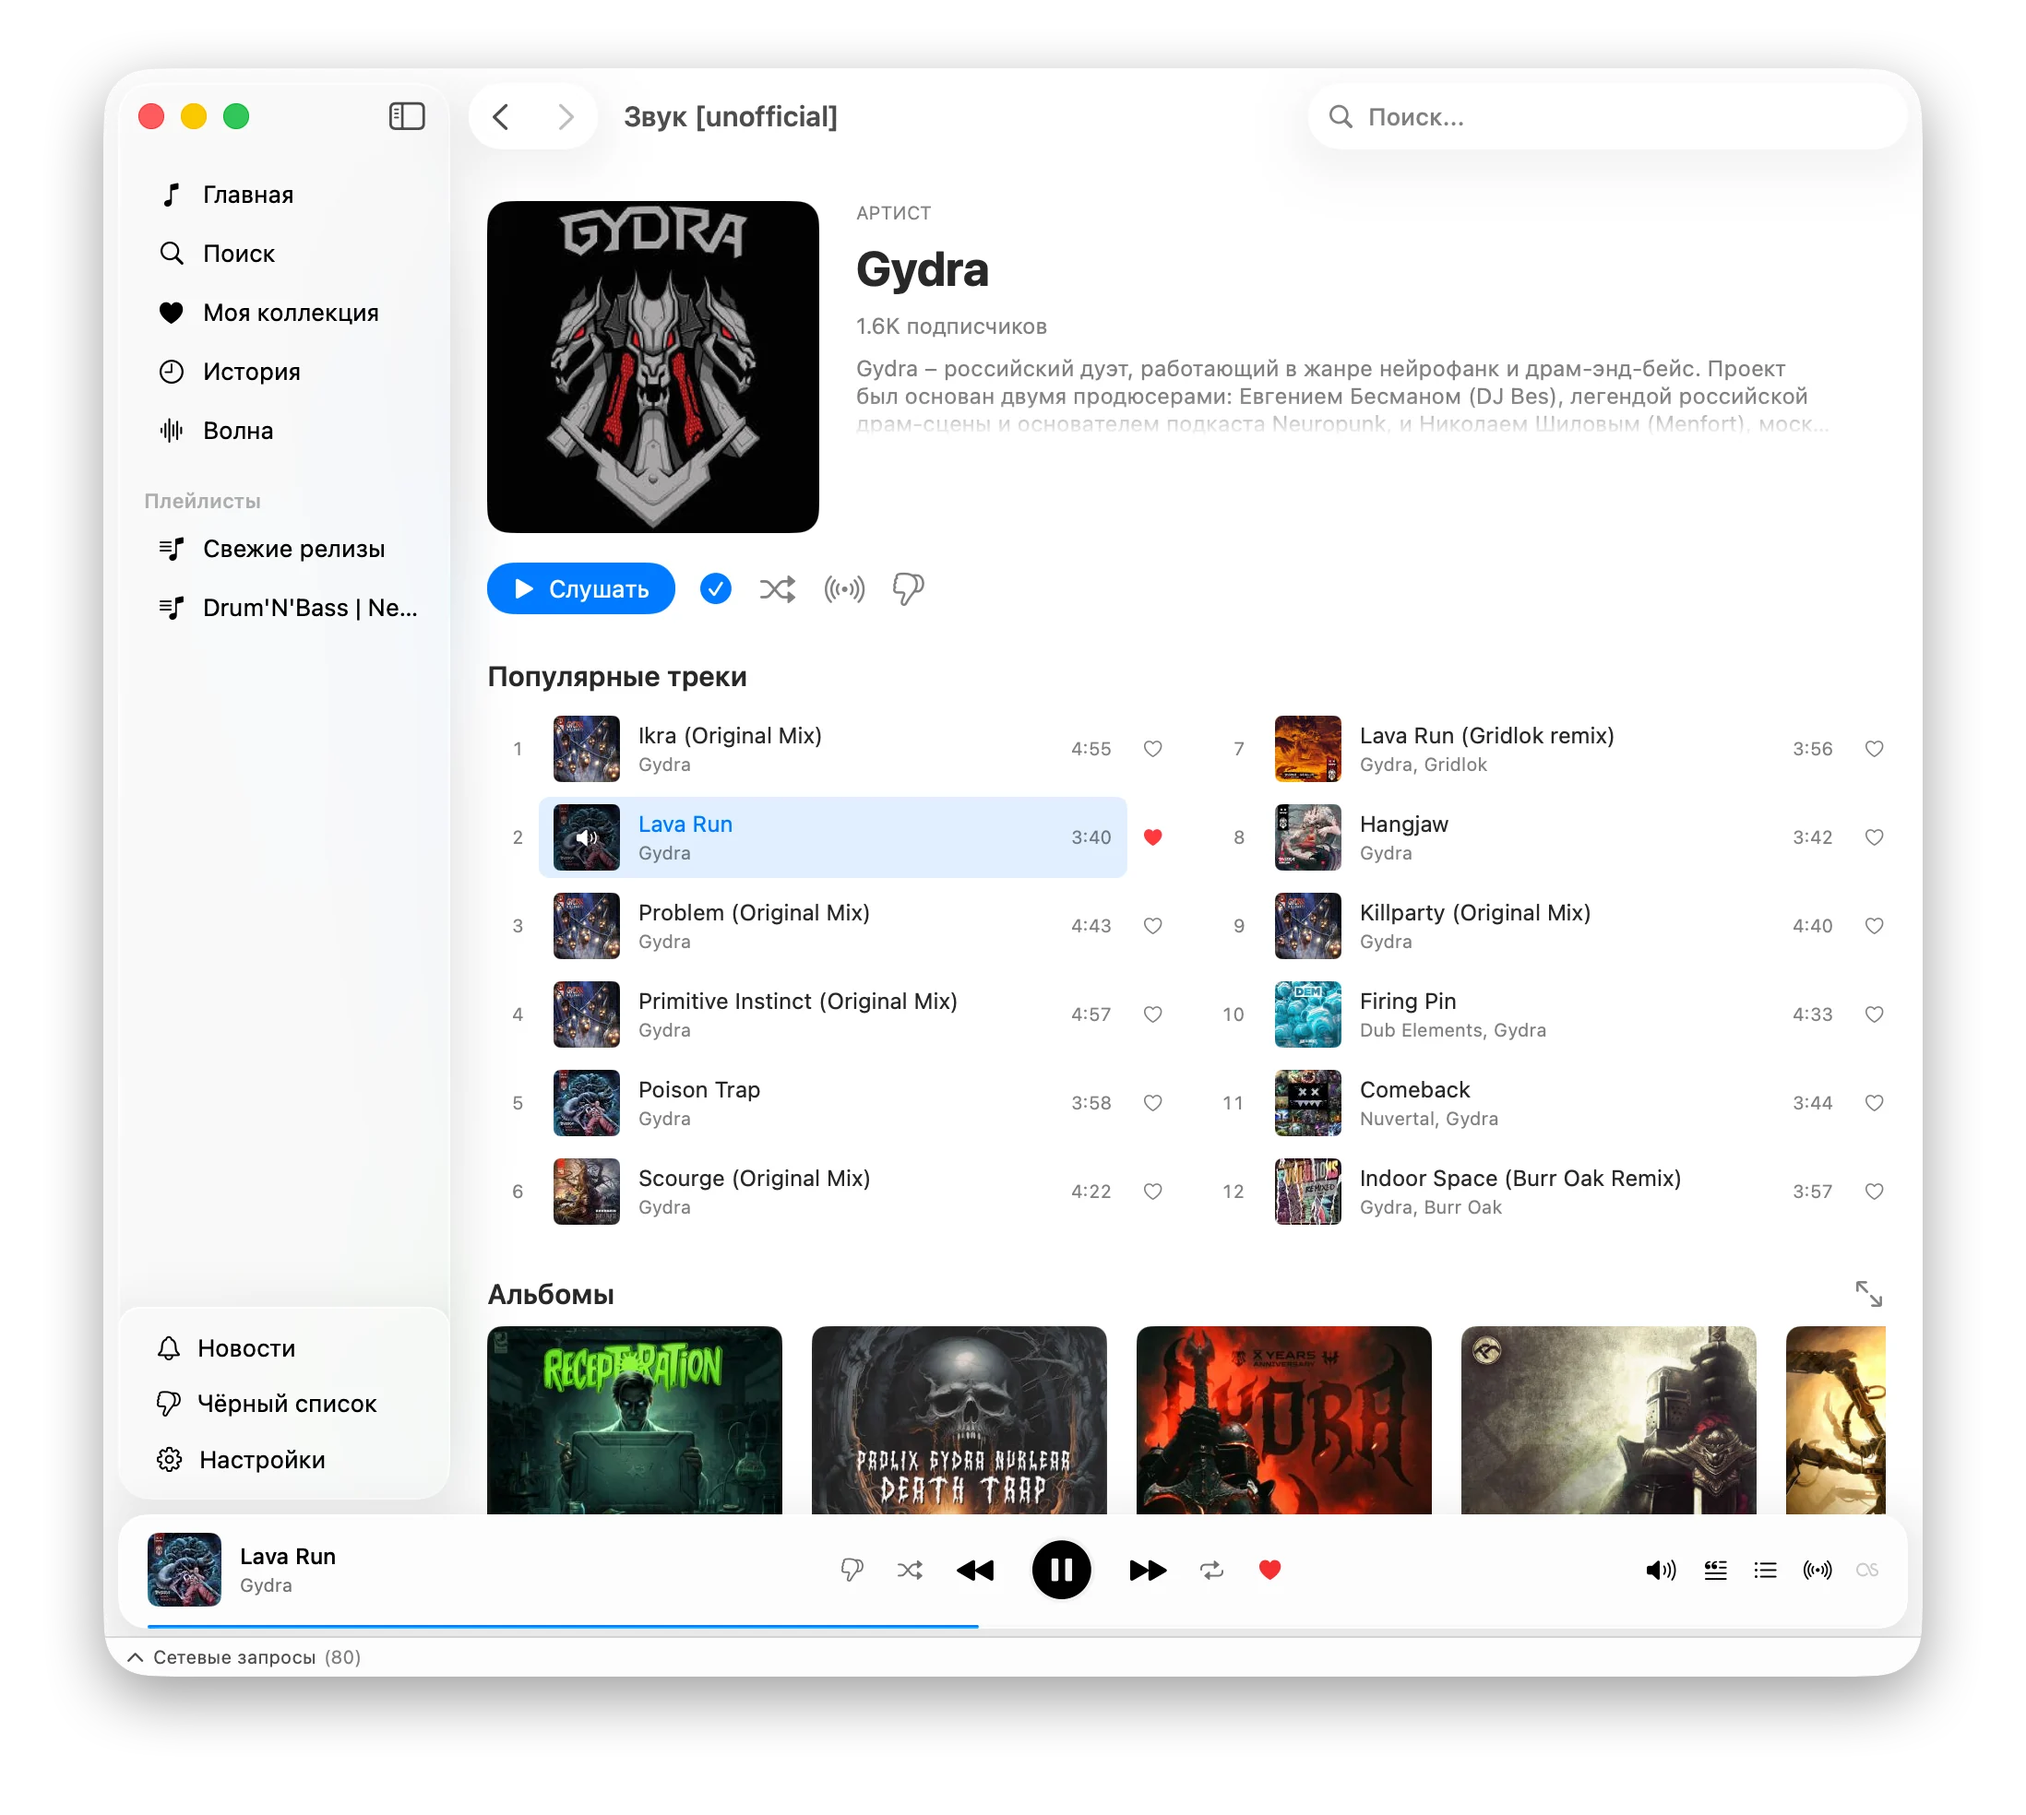
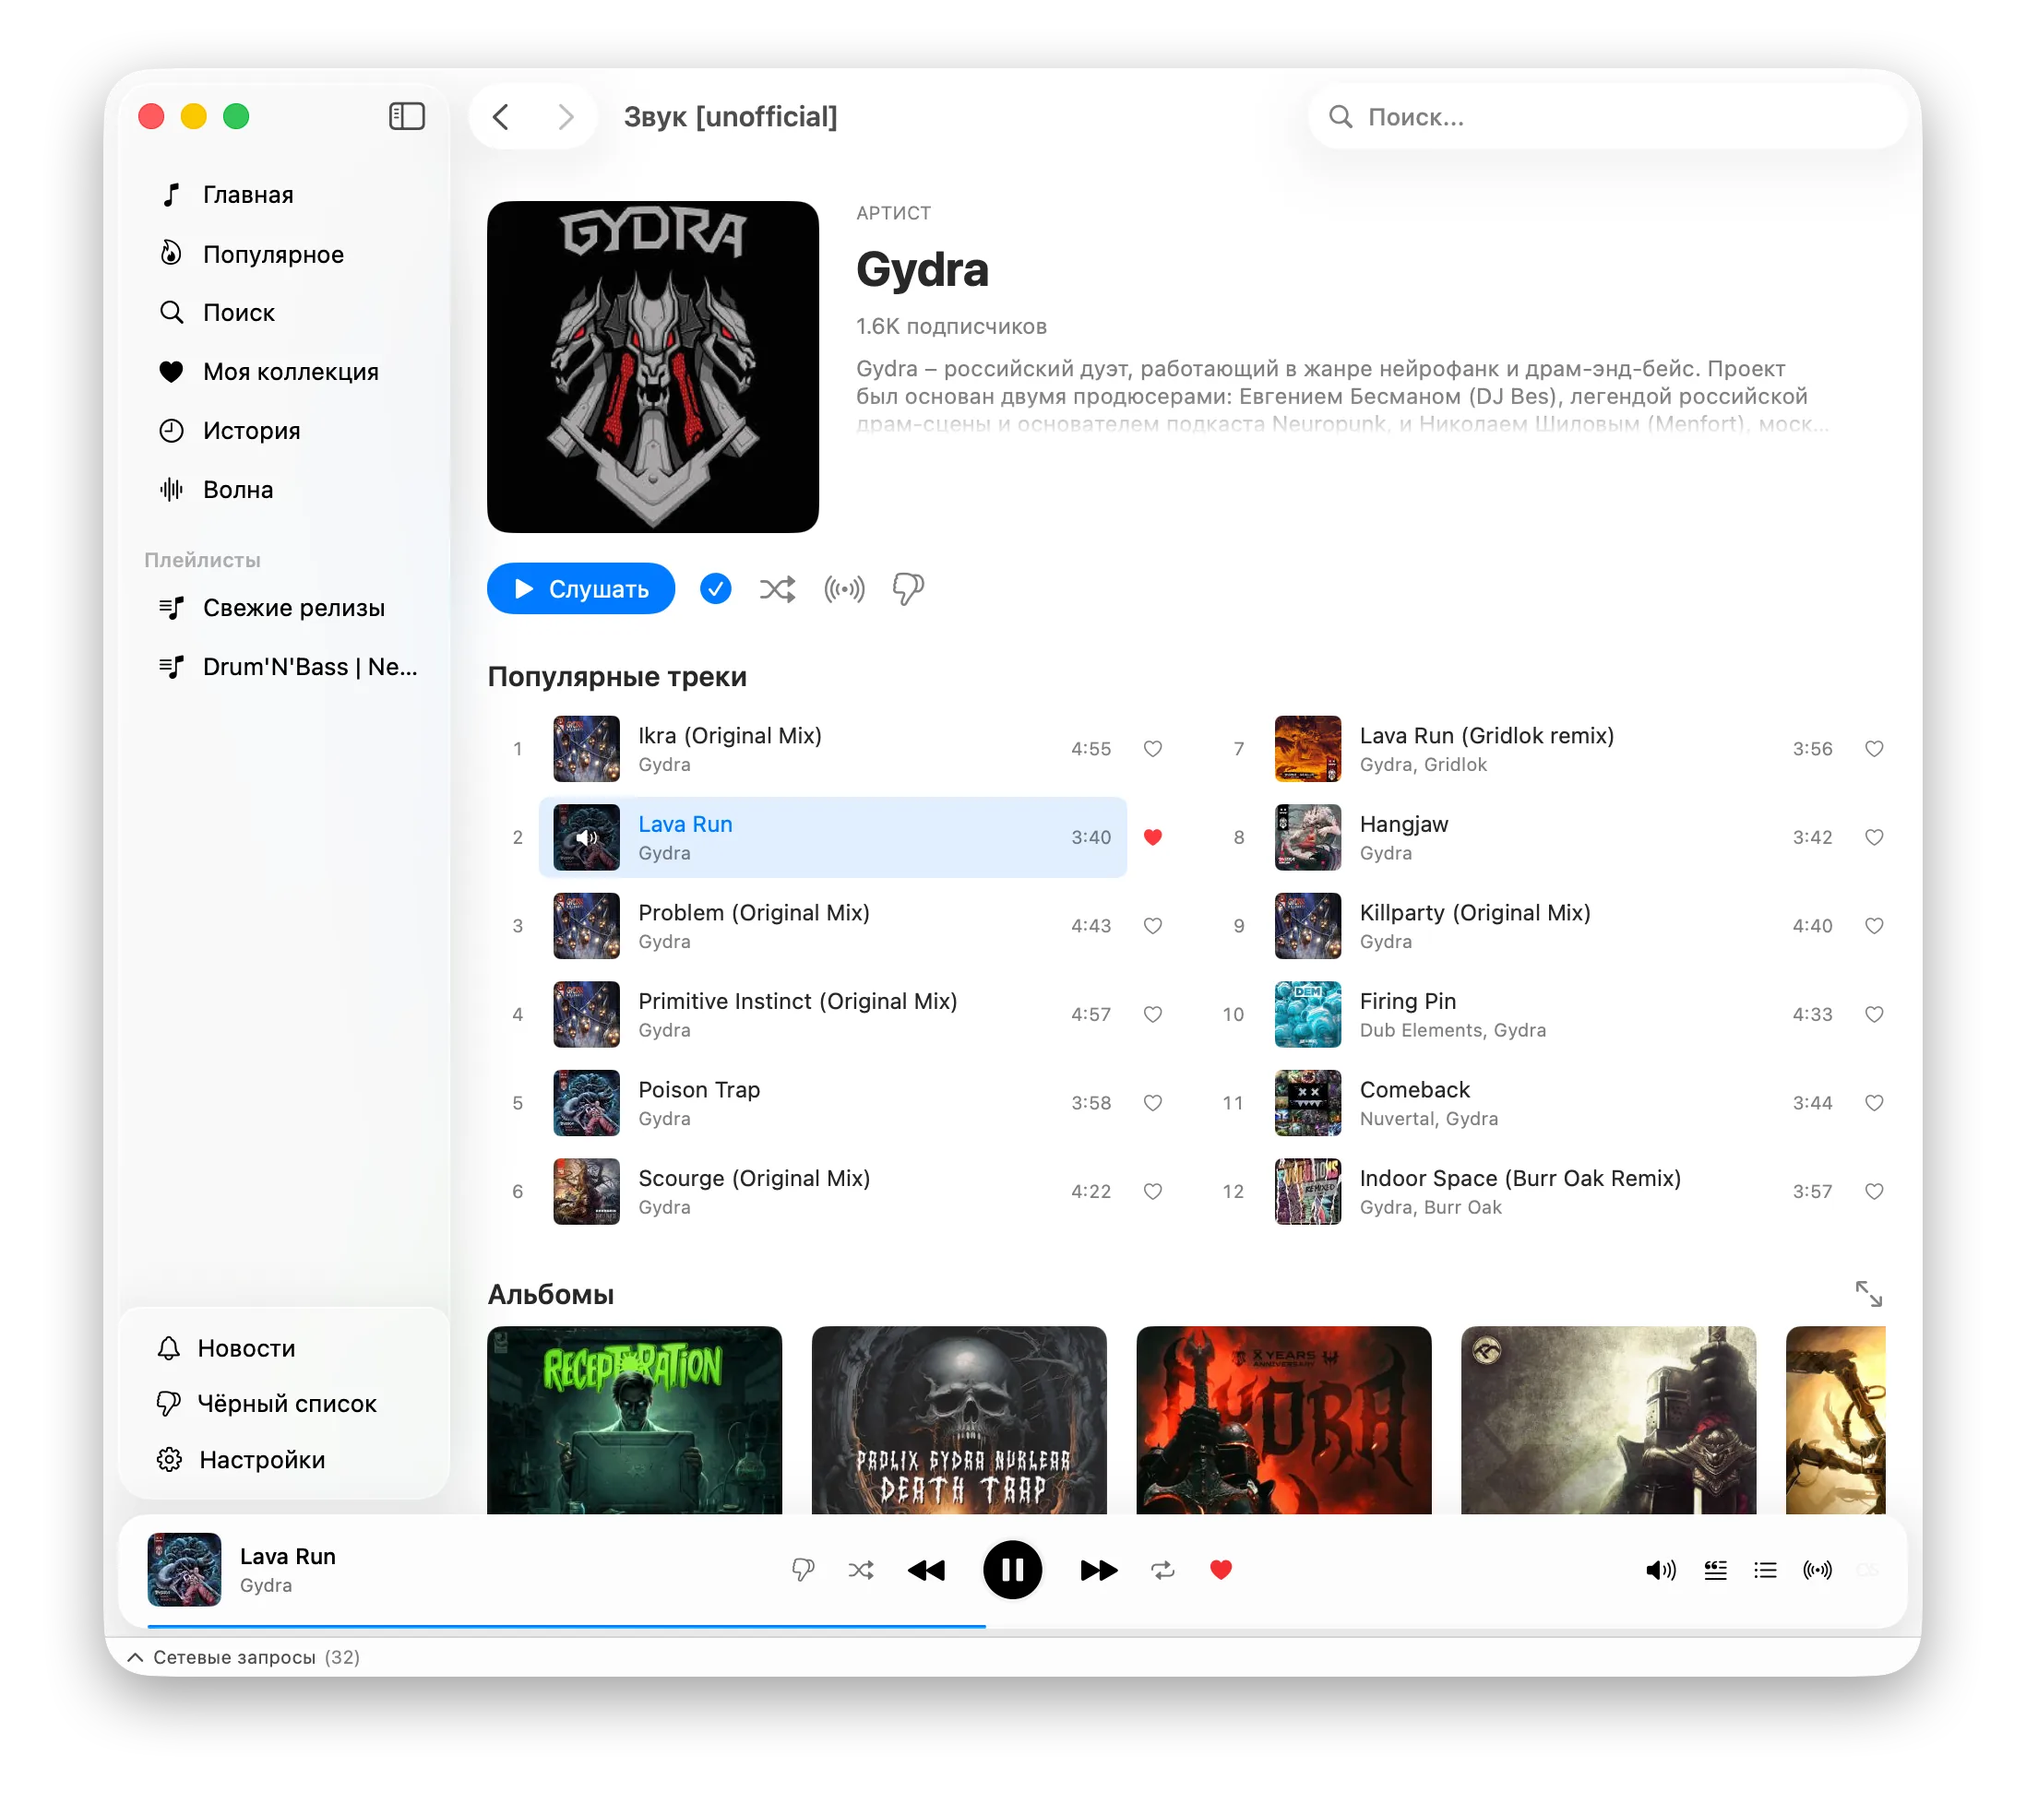
Bump version to 1.2.0 (82) and update docs

Changed region(s): [[0.0619, 0.124, 0.1858, 0.372], [0.4335, 0.8369, 0.6193, 0.8989]]

diff --git a/CLAUDE.md b/CLAUDE.md
@@ -9,7 +9,7 @@ This file provides guidance to Claude Code when working with the yamp-zvuk codeb
 - **Platform**: macOS 15+, Swift 6
 - **UI Framework**: SwiftUI with `@Observable` pattern
 - **Bundle ID**: `ru.korenskoy.zvuk-unofficial`
-- **API**: GraphQL via `ZvukMusic` Swift package (`../zvuk-swift`)
+- **API**: GraphQL + REST via `ZvukMusic` Swift package (`../zvuk-swift`, v0.2.0+)
 
 ## Build Commands
 
@@ -32,9 +32,10 @@ xcodegen generate
 ### Key Patterns
 
 - **DI via `@Environment`**: Services injected as `@Environment(PlayerService.self)`
-- **Navigation**: `AppState.selectedDestination` enum, history stack for back/forward
+- **Navigation**: `AppState.selectedDestination` enum (home, popular, search, collection, history, wave, artist, release, playlist, etc.), history stack for back/forward
 - **Search**: `.searchable(placement: .toolbar)` on ContentView's detail, `SearchViewModel` owned by ContentView and passed to SearchView
-- **Caching**: API responses via `CacheService`, images via `ImageCacheService` (file-based, 7-day TTL)
+- **Caching**: API responses via `CacheService` (grids, playlists, releases, artists), images via `ImageCacheService` (file-based, 7-day TTL)
+- **Grid API**: `CacheService.getGrid(name:)` loads CMS-managed page structure (sections with playlists, releases, artists). `PopularViewModel` parses grid sections and loads data per type. Sections listed in `ignoredGridSections` are skipped. Per-section error handling — one failing section doesn't break the page
 - **Image loading**: `CachedAsyncImage` — drop-in replacement for `AsyncImage`, always use it
 - **Generated covers**: `GeneratedCoverView(seed:)` — deterministic `MeshGradient` for items without artwork (e.g. recommendation playlists)
 
@@ -119,6 +120,7 @@ private struct MyGlassModifier: ViewModifier {
 
 - **Language**: Russian for UI strings, English for code. Use "Альбомы" (not "Релизы") in UI
 - **SwiftUI color**: Use `Color.accentColor` (not `.accent`) with `.foregroundStyle()`
+- **ProgressView centering**: Full-page spinners must be outside `ScrollView` (wrapped in `Group`), not inside — `ScrollView` doesn't expand to fill available height
 - **No DMG auto-build**: Only build DMG when explicitly requested
 - **Do not forget about CacheService**
 - **All requests to API must be logged** (look at LogStore) — never use empty `catch {}`, always surface or log errors

diff --git a/README.md b/README.md
@@ -7,6 +7,7 @@
 ## Возможности
 
 - Просмотр артистов, альбомов, плейлистов
+- Раздел «Популярное» — новинки, хиты, жанры, редакция
 - Полноценное воспроизведение с управлением очередью
 - Персональная Волна — радио по настроению
 - Радио по треку — поиск похожей музыки
